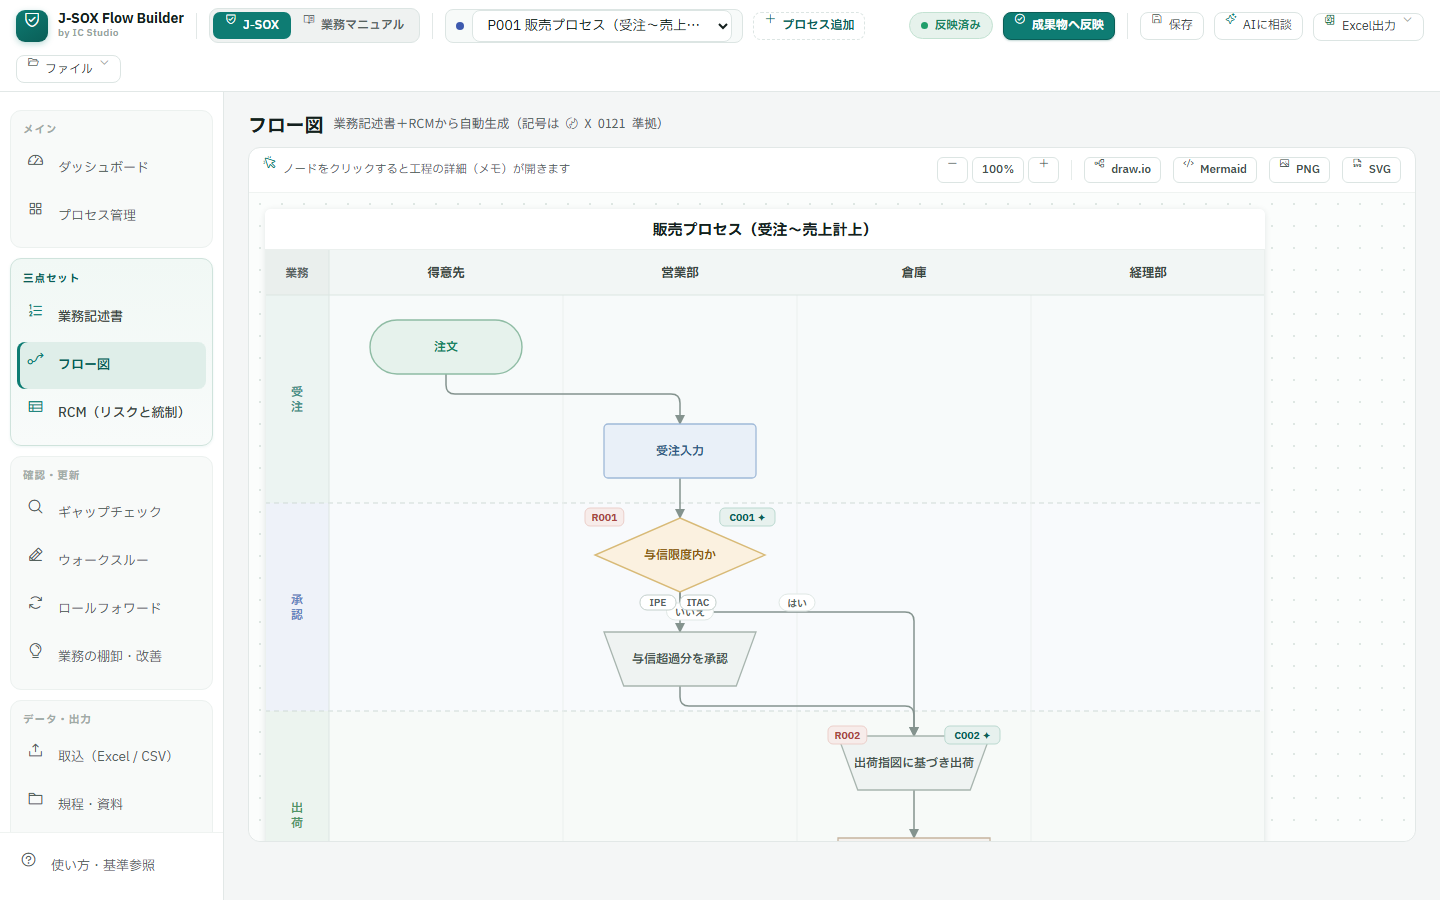
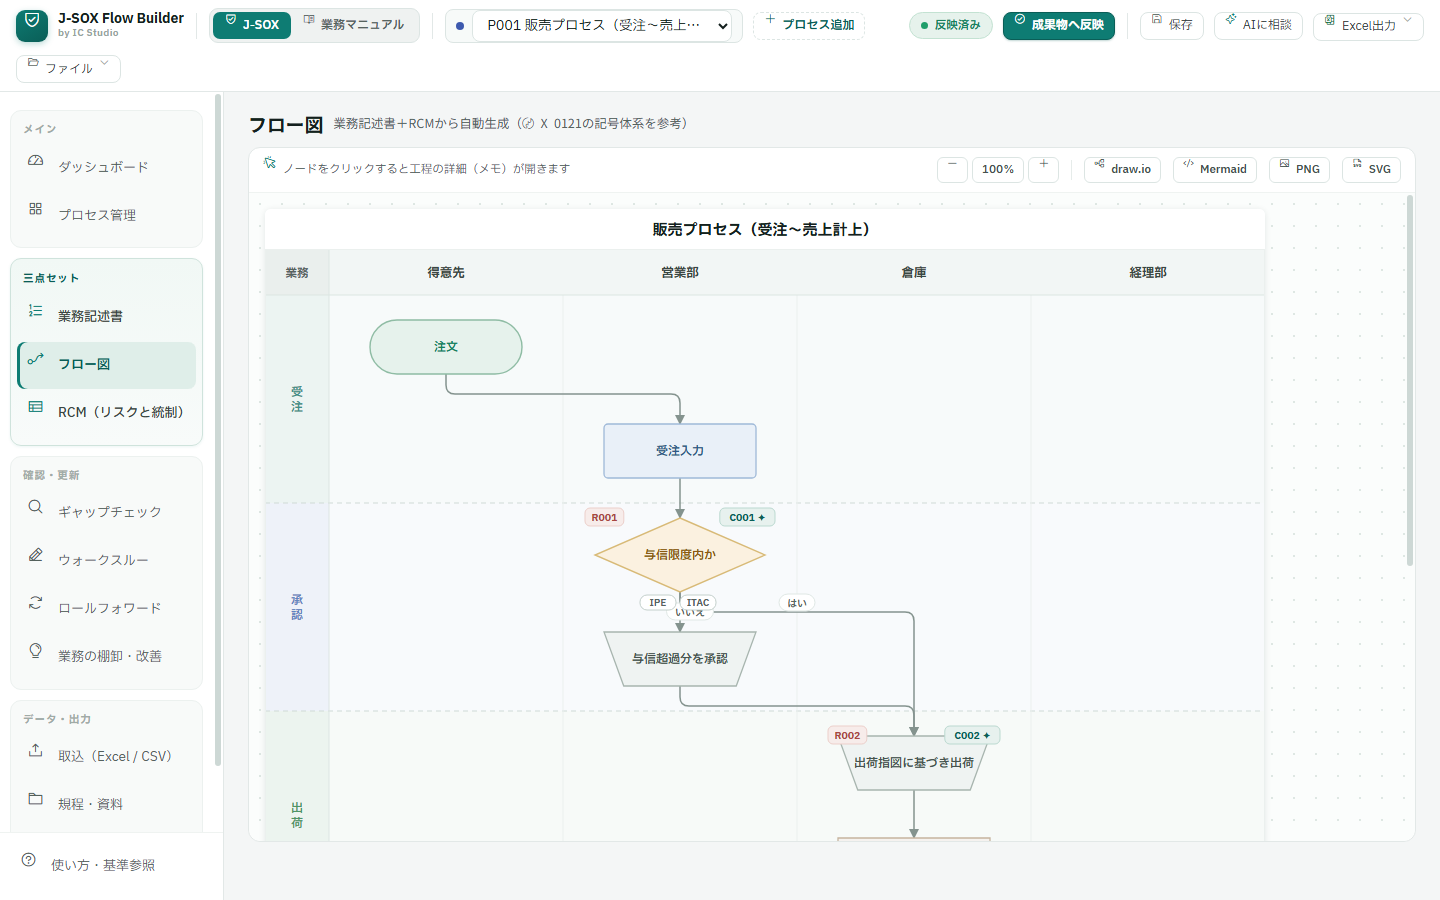
ファーストビューに実機画面（ブラウザ枠付き）を追加、フロー図スクショをJIS参考表現で再撮影
- PC: 左テキスト＋右実機画面の2カラム、スマホ: CTA下に1枚（width/height指定・eager読込でCLS抑制）
- 03-flow-generated.png をヘッダー表記修正後の実画面で再取得

Changed region(s): [[0.125, 0.1244, 0.1562, 0.84], [0.9688, 0.2178, 1.0, 0.6222], [0.3438, 0.1244, 0.4688, 0.1556]]

diff --git a/index.html b/index.html
@@ -46,6 +46,14 @@
   @media (max-width:768px){.pc-heading{display:none;}.sp-heading{display:block;}}
   .sp-cta{flex-direction:column;width:100%;max-width:380px;}
   .sp-note{font-size:12px;color:#A9D4CD;margin-top:10px;}
+  /* hero 実機画面（PC=右カラム / スマホ=CTA下） */
+  .hero-grid{display:grid;grid-template-columns:1.05fr .95fr;gap:44px;align-items:center;}
+  @media (max-width:979px){.hero-grid{display:block;}}
+  .hshot{border-radius:12px;overflow:hidden;box-shadow:0 18px 50px rgba(0,0,0,.35);border:1px solid rgba(255,255,255,.18);background:#fff;}
+  .hshot .hbar{height:26px;background:#E8EDEC;display:flex;align-items:center;gap:6px;padding:0 12px;}
+  .hshot .hbar i{width:9px;height:9px;border-radius:50%;background:#C9D4D1;display:block;}
+  .hshot img{width:100%;height:auto;display:block;}
+  @media (max-width:979px){.hshot{margin-top:26px;max-width:560px;}}
   /* pain */
   .pain{background:var(--bg);}
   .cards{display:grid;grid-template-columns:repeat(auto-fit,minmax(230px,1fr));gap:14px;}
@@ -94,7 +102,8 @@
 <body>
 
 <header class="hero">
-  <div class="wrap">
+  <div class="wrap hero-grid">
+  <div>
     <span class="badge">無料 ・ ブラウザだけで動作 ・ ベータ版（開発中）</span>
     <h1>J-SOX三点セットを、<br>ひとつのデータから。</h1>
     <p class="lead">業務記述書・業務フロー図・RCMを別々のExcelで管理するのではなく、工程・リスク・統制を一元管理し、整合した成果物として出力できる無料ツールです。</p>
@@ -110,6 +119,11 @@
       <a class="btn btn-s" href="#shots">操作画面を見る</a>
       <span class="sp-note">操作画面はPC向けです。スマートフォンではツールの概要と操作例をご覧いただけます。</span>
     </div>
+  </div>
+  <div class="hshot">
+    <div class="hbar"><i></i><i></i><i></i></div>
+    <img src="assets/screenshots/current/03-flow-generated.png" width="1440" height="900" alt="実際の操作画面：業務記述書とRCMから自動生成された業務フロー図（スイムレーン・リスク統制タグ付き）">
+  </div>
   </div>
 </header>
 
